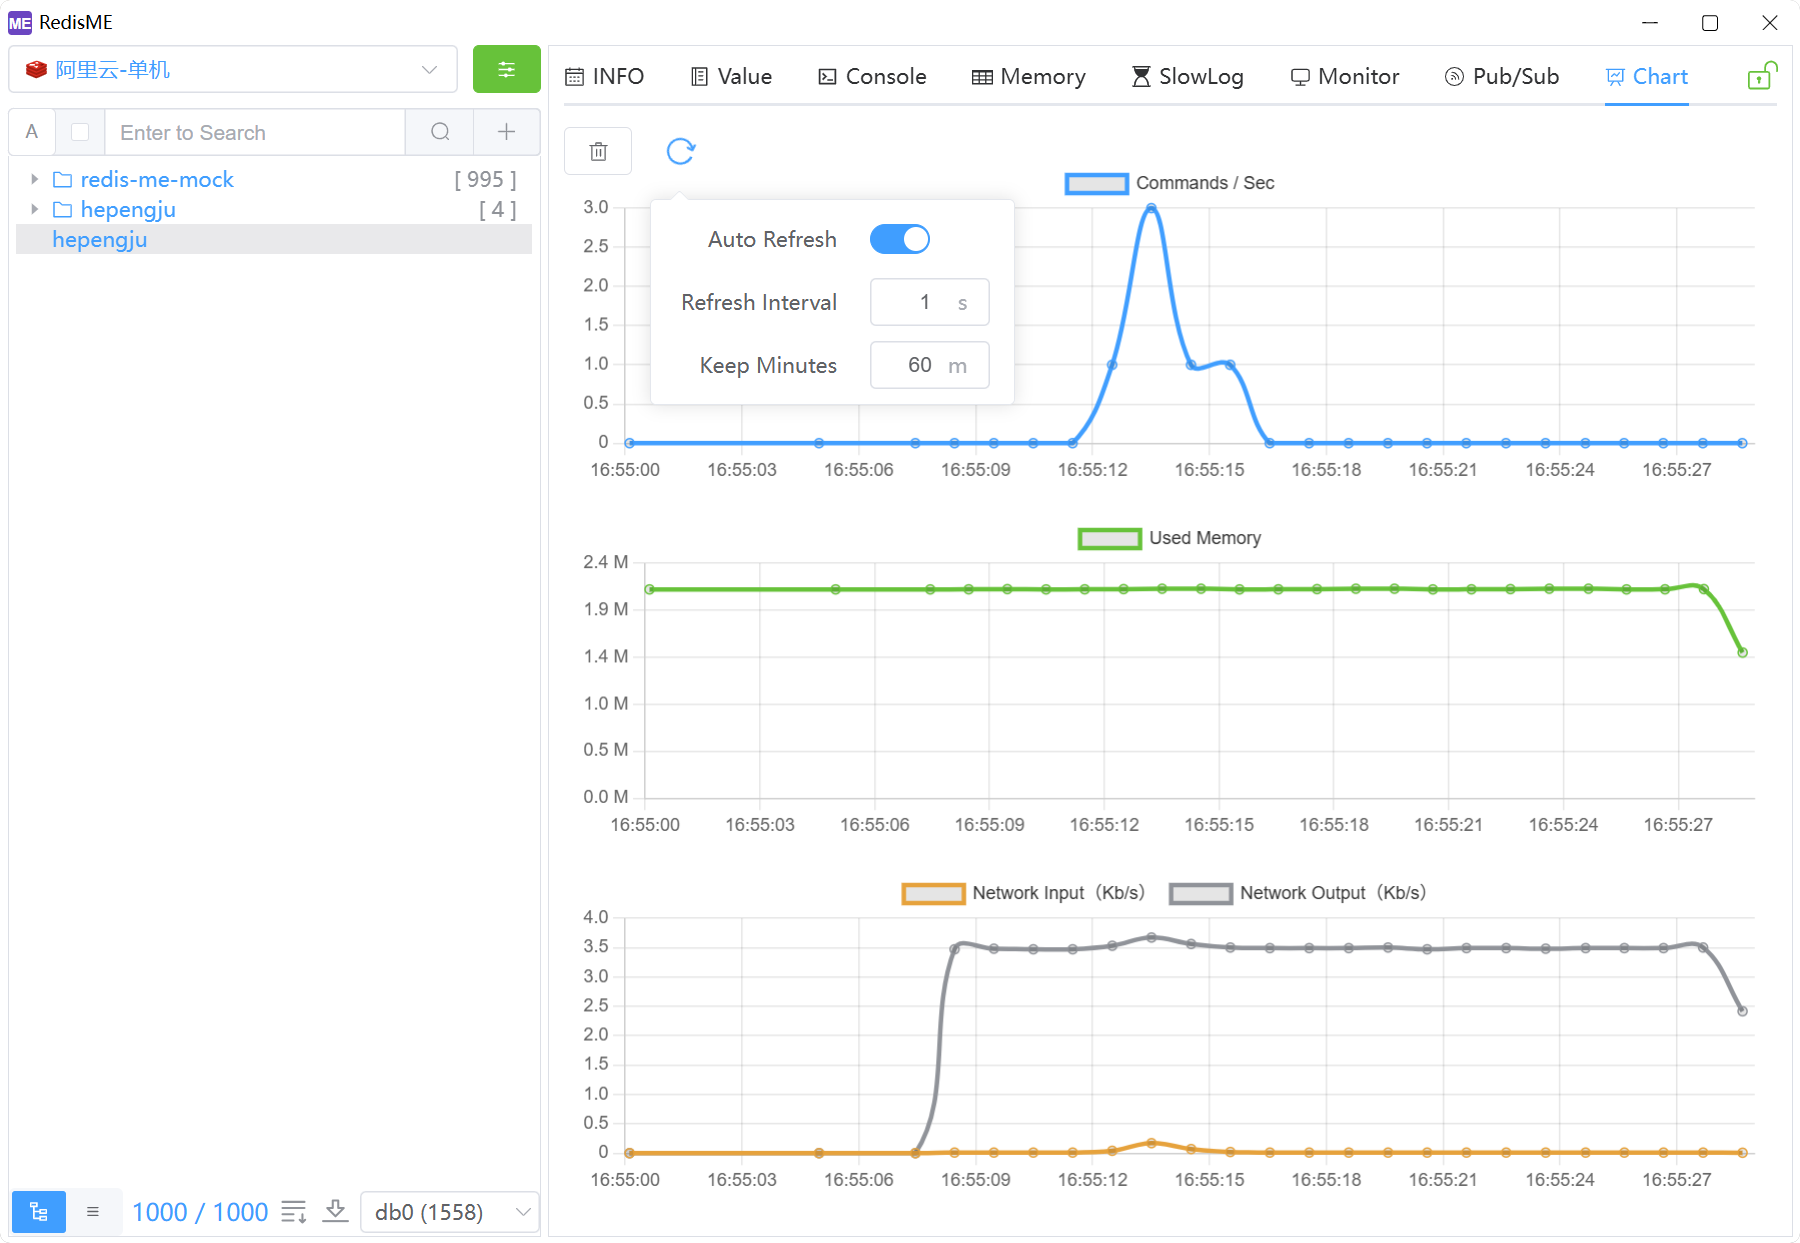
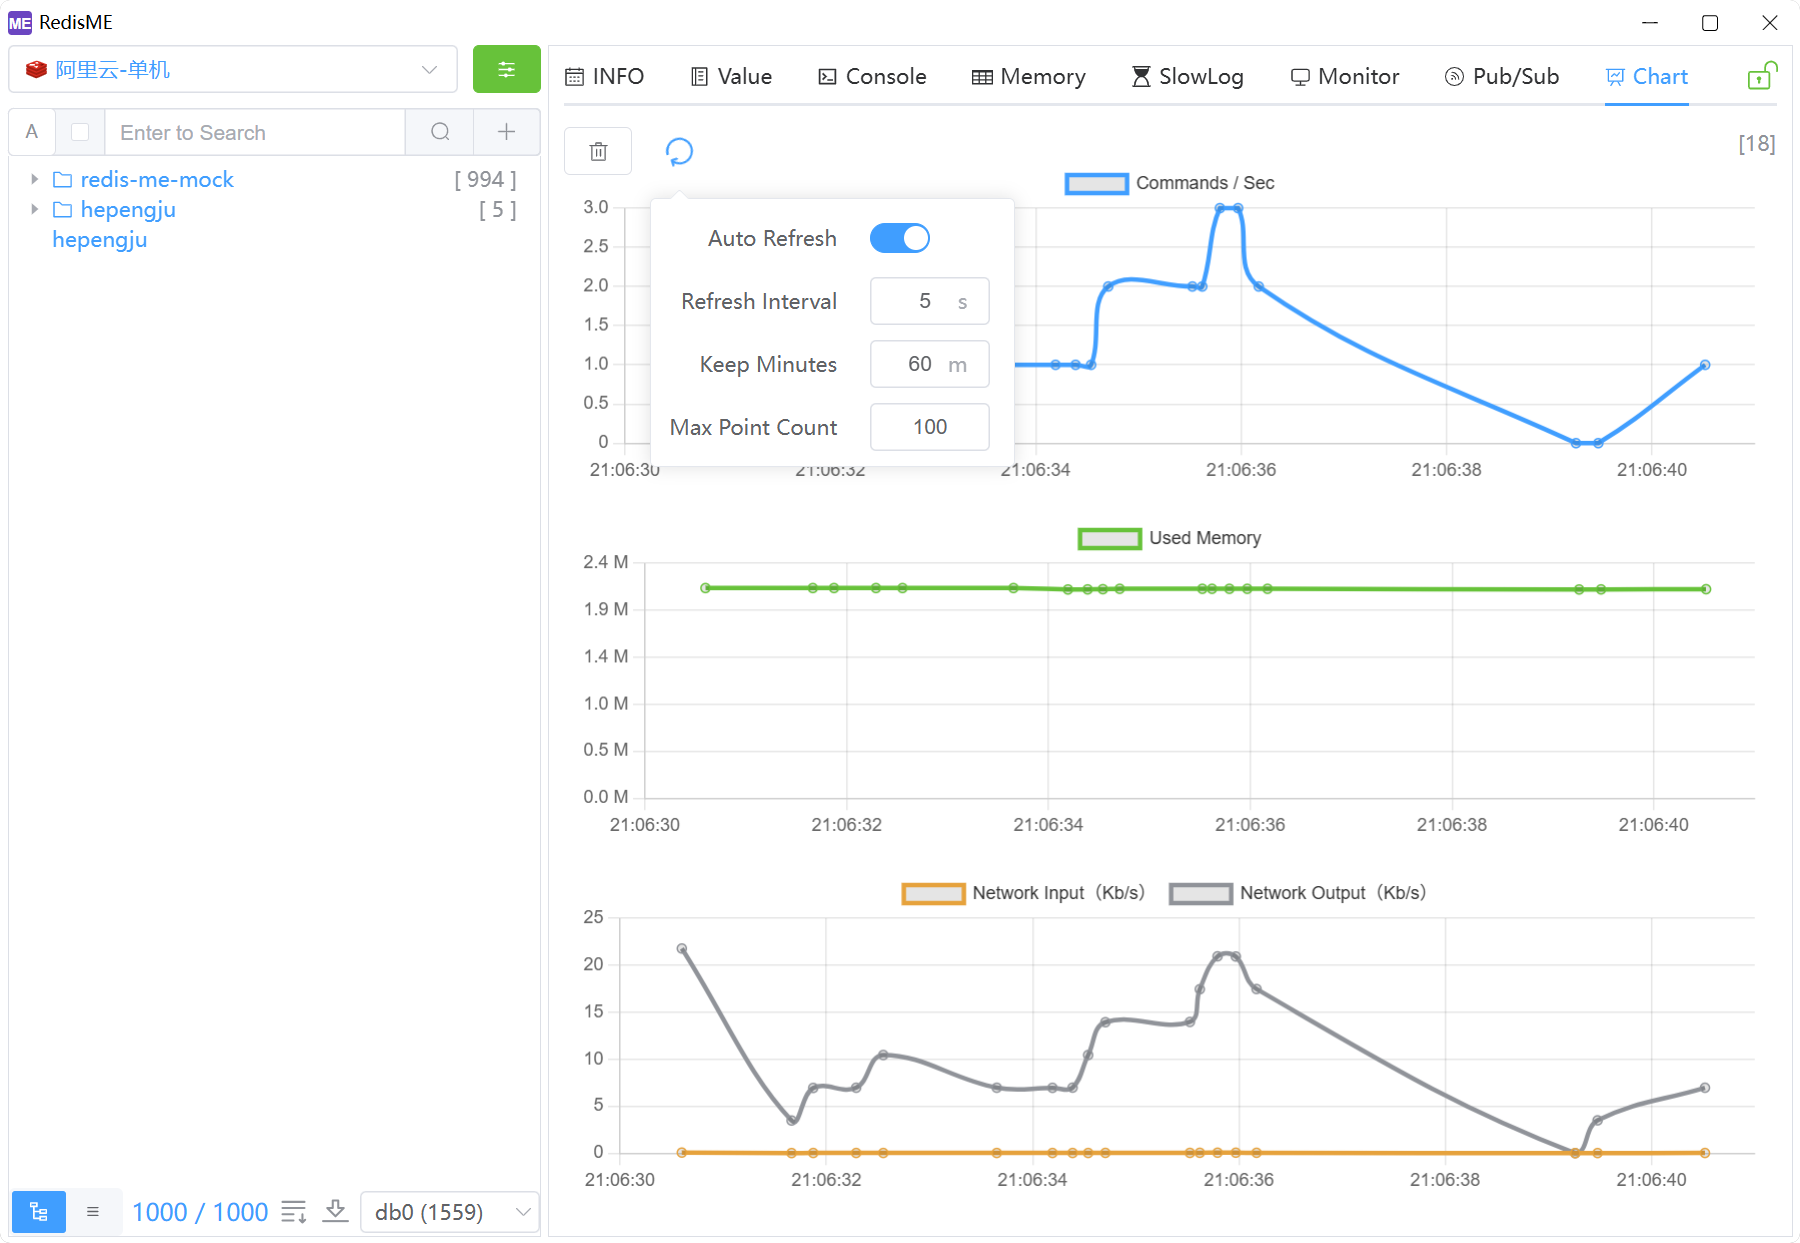
Merge pull request #34 from hepengju/dev
Dev

Pull request: Dev

diff --git a/src/views/tab/RedisChart.vue b/src/views/tab/RedisChart.vue
@@ -20,15 +20,16 @@ ChartJS.register(LineController, LineElement, PointElement, TimeScale, LinearSca
 const {t} = useI18n()
 
 const share = inject('share')
-const node = ref('')           // 指定节点
-const autoRefresh = ref(true)  // 自动刷新
-const refreshInterval = ref(5) // 刷新间隔（秒）
-const keepMinutes = ref(60)    // 保留N分钟的数据, 超过则砍一半(1个个截取，图表总跳动)
-const maxDataCount = computed(() => keepMinutes.value * 60 / refreshInterval.value) // 最多保存N个数据
+const node = ref('')            // 指定节点
+const autoRefresh = ref(true)   // 自动刷新
+const refreshInterval = ref(5)  // 刷新间隔（秒）
+const keepMinutes = ref(60)     // 保留N分钟的数据
+const maxPointCount = ref(100)  // 最多保存N个数据
+const nowPointCount = ref(0)    // 当前数据条数
 
 // 自动刷新及刷新间隔配置
 let timer = null
-watch([autoRefresh, refreshInterval], (val) => {
+watch([autoRefresh, refreshInterval], ([val, _]) => {
   clearTimeout(timer)
   if (val) {
     timer = setInterval(getData, refreshInterval.value * 1000)
@@ -51,35 +52,92 @@ getData()
 async function getData() {
   try {
     const res = await meInvoke('chart', {id: share.conn.id, node: node.value})
-    const label = new Date()
-    setChartData(label, res, 'command', 'instantaneousOpsPerSec')
-    setChartData(label, res, 'memory', 'usedMemory')
-    setChartData(label, res, 'network', 'instantaneousInputKbps', 'instantaneousOutputKbps')
+    const label = Date.now()
+    addChartData(label, res, 'command', 'instantaneousOpsPerSec')
+    addChartData(label, res, 'memory', 'usedMemory')
+    addChartData(label, res, 'network', 'instantaneousInputKbps', 'instantaneousOutputKbps')
+
+    // 保存当前数据条数, 超过最大条数，则均分取样
+    nowPointCount.value = chartData.value.command.labels.length
+    if (nowPointCount.value > maxPointCount.value) {
+      const indexes = calcLabelIndexes(chartData.value.command.labels)
+      cutChartData(indexes, 'command')
+      cutChartData(indexes, 'memory')
+      cutChartData(indexes, 'network')
+      chartData.value = cloneDeep(chartData.value) // 直接更新时图表没有重新渲染，因此克隆1份，让vue进行重新渲染
+      nowPointCount.value = chartData.value.command.labels.length
+    }
     refreshInstance()
   } catch (e) {
     meLog('get chart data error', e)
   }
 }
 
-// 简化多个属性设置
-function setChartData(label, res, prop0, prop1, prop2) {
+// 添加图表数据
+function addChartData(label, res, prop0, prop1, prop2) {
   let propData = chartData.value[prop0]
   propData.labels.push(label)
   propData.datasets[0].data.push(res[prop1])
   if (prop2) {
     propData.datasets[1].data.push(res[prop2])
   }
-  // 数组仅保留前N个，避免数据过多程序卡顿
-  const length = maxDataCount.value
-  if (propData.labels.length > length) {
-    const deleteCount = Math.floor(maxDataCount.value / 2)
-    meLog('chart data too long, truncate', length)
-    propData.labels.splice(0, deleteCount)
-    propData.datasets[0].data.splice(0, deleteCount)
-    if (prop2) {
-      propData.datasets[1].data.splice(0, deleteCount)
+}
+
+// 裁剪图表数据
+function cutChartData(indexes, prop0) {
+  let propData = chartData.value[prop0]
+  propData.labels = cutArray(propData.labels, indexes)
+  propData.datasets[0].data = cutArray(propData.datasets[0].data, indexes)
+  if (propData.datasets[1]) {
+    propData.datasets[1].data = cutArray(propData.datasets[1].data, indexes)
+  }
+}
+
+// 裁剪数组
+function cutArray(arr, indexes) {
+  const newArr = []
+  for (let i = 0; i < arr.length; i++) {
+    if (indexes.includes(i)) {
+      newArr.push(arr[i])
     }
   }
+  return newArr
+}
+
+// 计算需要保留的索引位置，用于裁剪判断
+function calcLabelIndexes() {
+  const labels = chartData.value.command.labels
+  const minLabel = Date.now() - keepMinutes.value * 60 * 1000
+  meLog('minLabel', new Date(minLabel))
+
+  // 最大值减去最小值，除以 maxPointCount 获得刻度间隔
+  const interval = Math.floor((labels[labels.length - 1] - Math.max(labels[0], minLabel)) / maxPointCount.value) * 1.5
+  meLog('interval', interval, 'max', labels[labels.length - 1], 'min', Math.max(labels[0], minLabel))
+
+  const indexes = []
+  let intervalLabel = undefined
+  for (let i = 0; i < labels.length; i++) {
+    const label = labels[i]
+
+    // 超过保留时间的数据跳过
+    if (label < minLabel) {
+      meLog('小于保留时间数据跳过')
+      continue
+    }
+
+    // 第1个保留的标签
+    if (intervalLabel === undefined) {
+      intervalLabel = label
+      continue
+    }
+
+    if (label - intervalLabel >= interval) {
+      indexes.push(i)
+      intervalLabel = label
+    }
+  }
+  meLog('indexes', indexes)
+  return indexes
 }
 
 // chart.js配置项（基本配置项）
@@ -282,12 +340,21 @@ watch(() => meTauri.settings.theme, () => {
                     </el-input-number>
                   </el-form-item>
                 </el-dropdown-item>
+                <el-dropdown-item>
+                  <el-form-item :label="t('redisChart.maxPointCount')">
+                    <el-input-number v-model.number="maxPointCount" :min="10" :max="200"
+                                     :controls="false" style="width: 80px; margin-left: 10px">
+                      <template #suffix>{{ t('redisChart.pointUnit') }}</template>
+                    </el-input-number>
+                  </el-form-item>
+                </el-dropdown-item>
               </el-form>
             </el-dropdown-menu>
           </template>
         </el-dropdown>
       </div>
       <div class="right">
+        <el-text type="info">[{{nowPointCount}}]</el-text>
         <node-list v-model="node" style="margin-left: 10px" init-node/>
       </div>
     </div>

diff --git a/src/locales/lang/en.js b/src/locales/lang/en.js
@@ -396,7 +396,9 @@ export default {
     refreshInterval: 'Refresh Interval',
     refreshUnit: 's',
     keepMinutes: 'Keep Minutes',
-    keepUnit: 'm'
+    keepUnit: 'm',
+    maxPointCount: 'Max Point Count',
+    pointUnit: '',
   },
 
   keyMain: {

diff --git a/src/locales/lang/zh-cn.js b/src/locales/lang/zh-cn.js
@@ -398,7 +398,9 @@ export default {
     refreshInterval: '刷新间隔',
     refreshUnit: '秒',
     keepMinutes: '保留时长',
-    keepUnit: '分'
+    keepUnit: '分',
+    maxPointCount: '最大点数',
+    pointUnit: '个',
   },
 
   keyMain: {

diff --git a/docs/zh/changelog/latest.md b/docs/zh/changelog/latest.md
@@ -8,6 +8,7 @@
 ## v1.6.0 (2026-01-31)
 
 - Redis哨兵模式的支持（SSL暂不支持关闭主机名验证）
+- 图表: 关闭自动刷新未生效的处理，图表最多显示100个数据，超过则均分取样大约50个数据点
 
 ## v1.5.0 (2026-01-24)
 